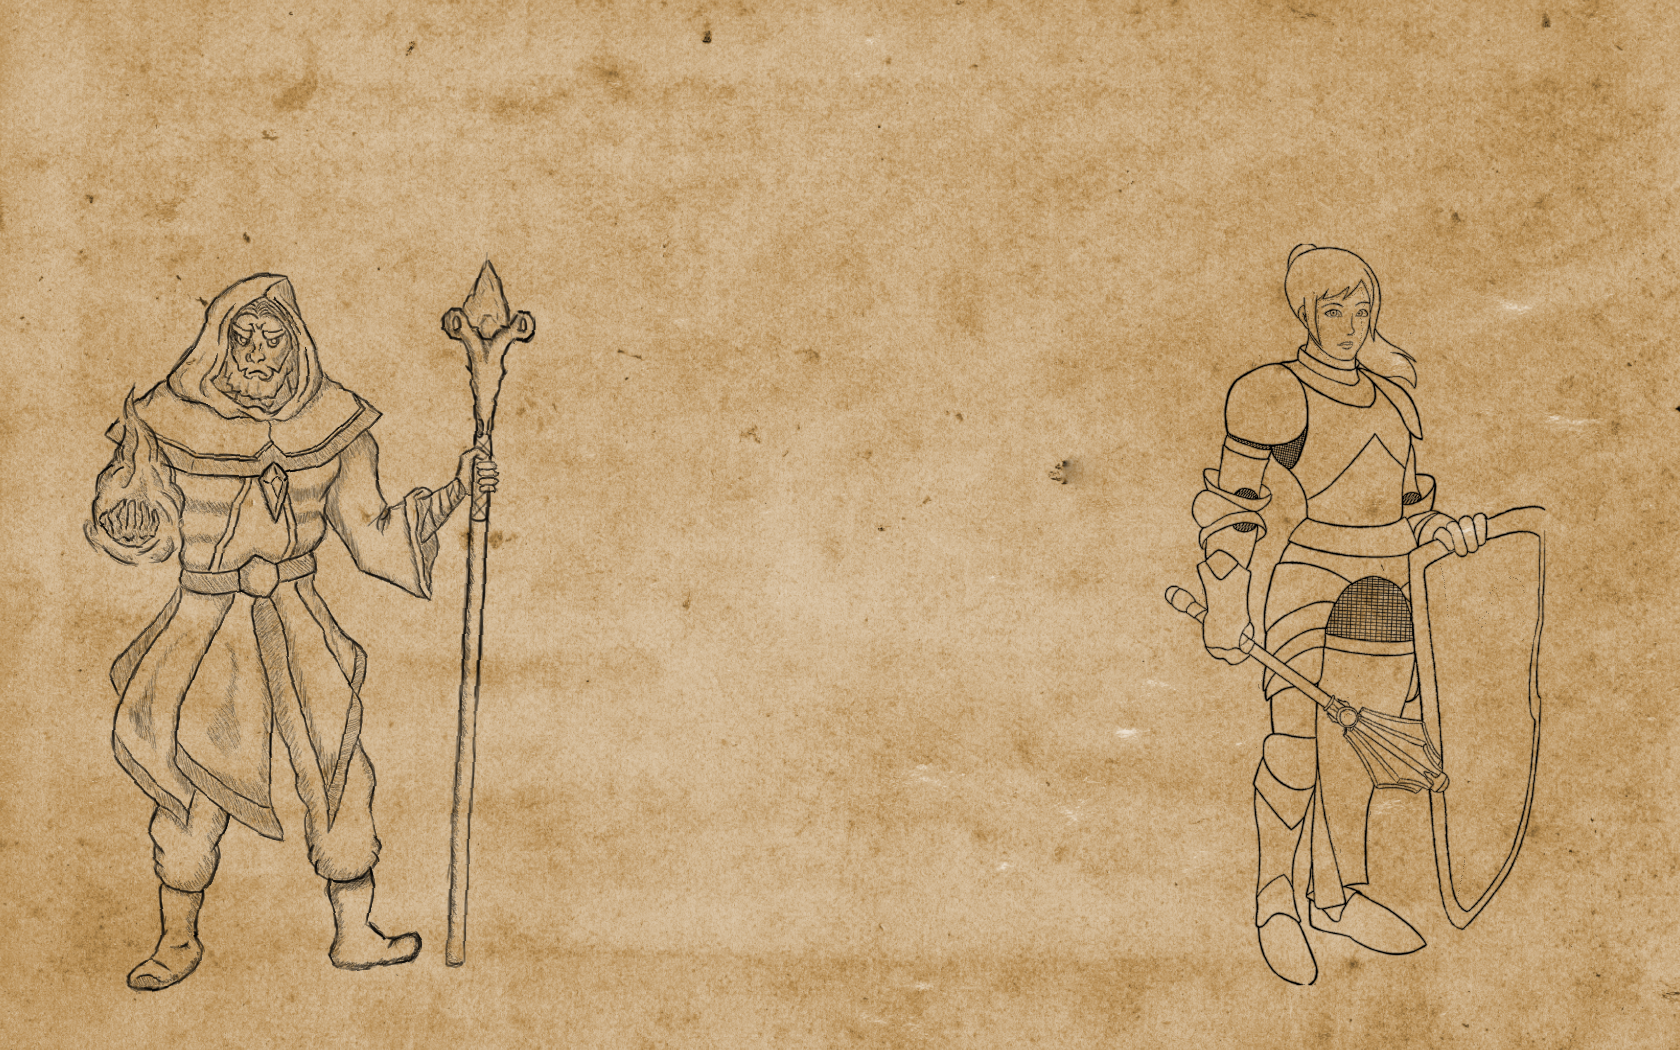
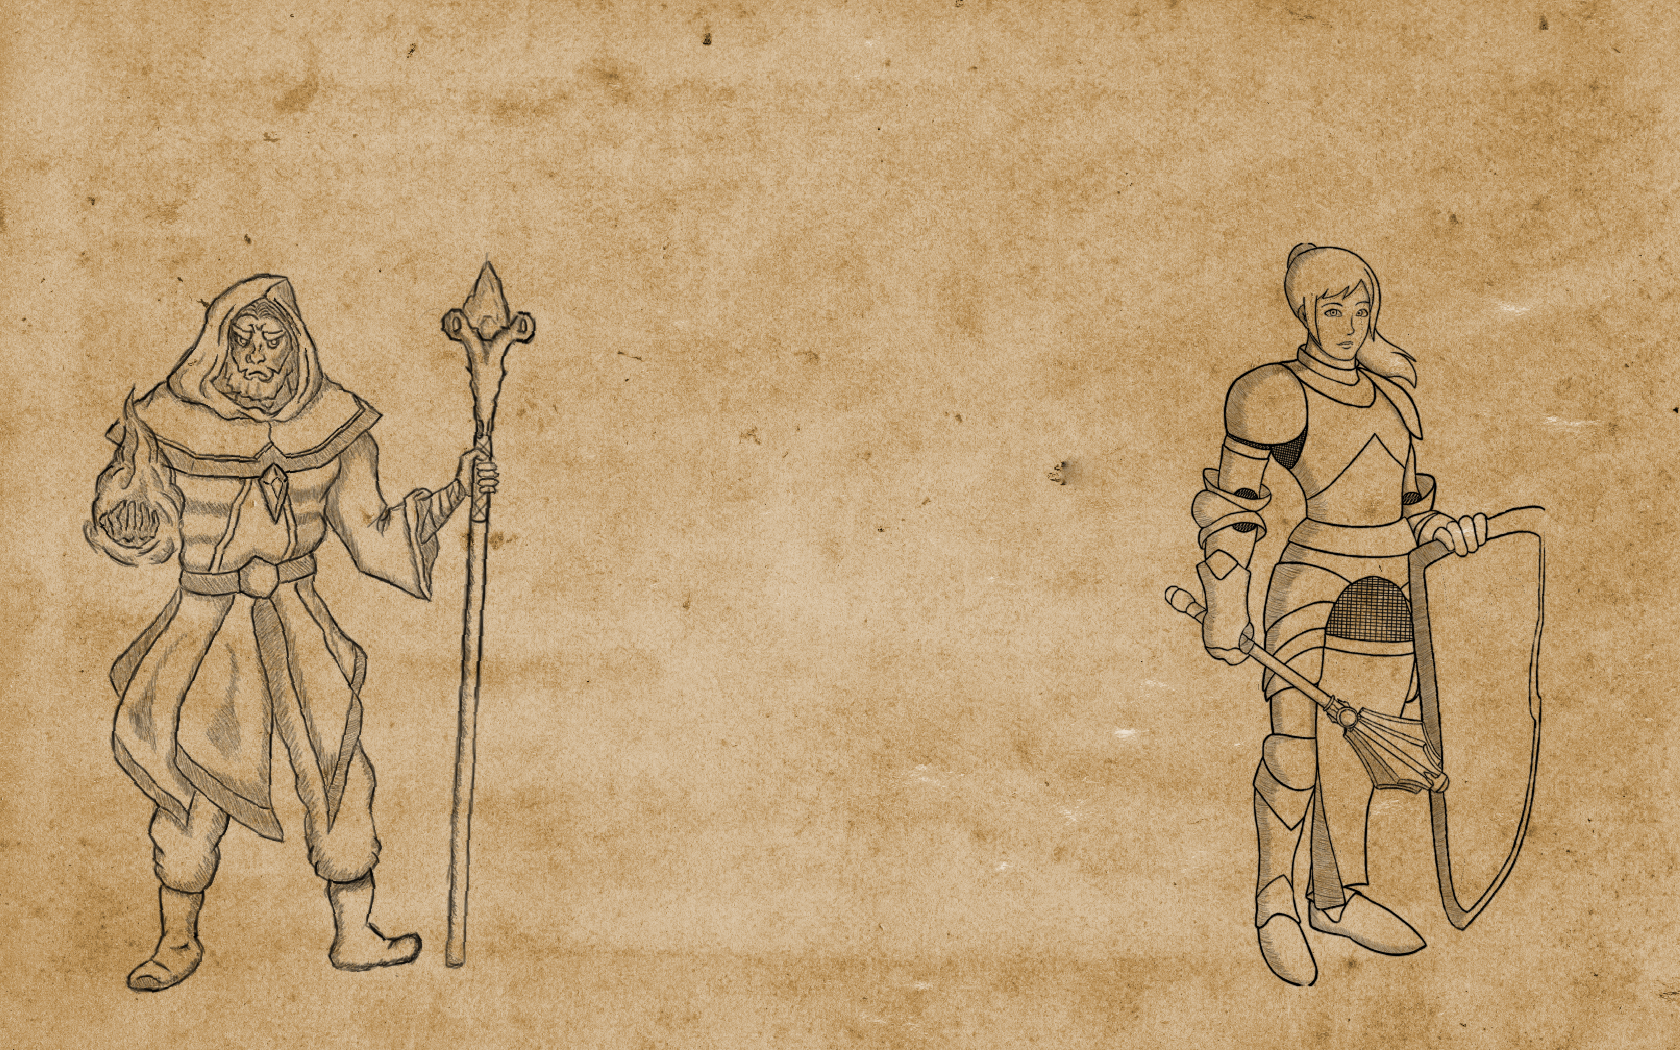
updated main manu bckg img + solved a bug with audio saving

Changed region(s): [[0.0, 0.0, 1.0, 1.0]]

diff --git a/Motor2D/j1Audio.cpp b/Motor2D/j1Audio.cpp
@@ -81,17 +81,17 @@ bool j1Audio::PostUpdate()
 
 bool j1Audio::Save(pugi::xml_node & config) const
 {
-	config.append_child("musicVolumeModifier").append_attribute("value") = musicVolumeModifier;
-	config.append_child("sfxVolumeModifier").append_attribute("value") = sfxVolumeModifier;
+	//config.append_child("musicVolumeModifier").append_attribute("value") = musicVolumeModifier;
+	//config.append_child("sfxVolumeModifier").append_attribute("value") = sfxVolumeModifier;
 	return true;
 }
 
 bool j1Audio::Load(pugi::xml_node & config)
 {
-	musicVolumeModifier = config.child("musicVolumeModifier").attribute("value").as_float();
-	sfxVolumeModifier = config.child("sfxVolumeModifier").attribute("value").as_float();
+	//musicVolumeModifier = config.child("musicVolumeModifier").attribute("value").as_float();
+	//sfxVolumeModifier = config.child("sfxVolumeModifier").attribute("value").as_float();
 
-	Mix_VolumeMusic(128 * musicVolumeModifier);
+	//Mix_VolumeMusic(128 * musicVolumeModifier);
 
 	return true;
 }
